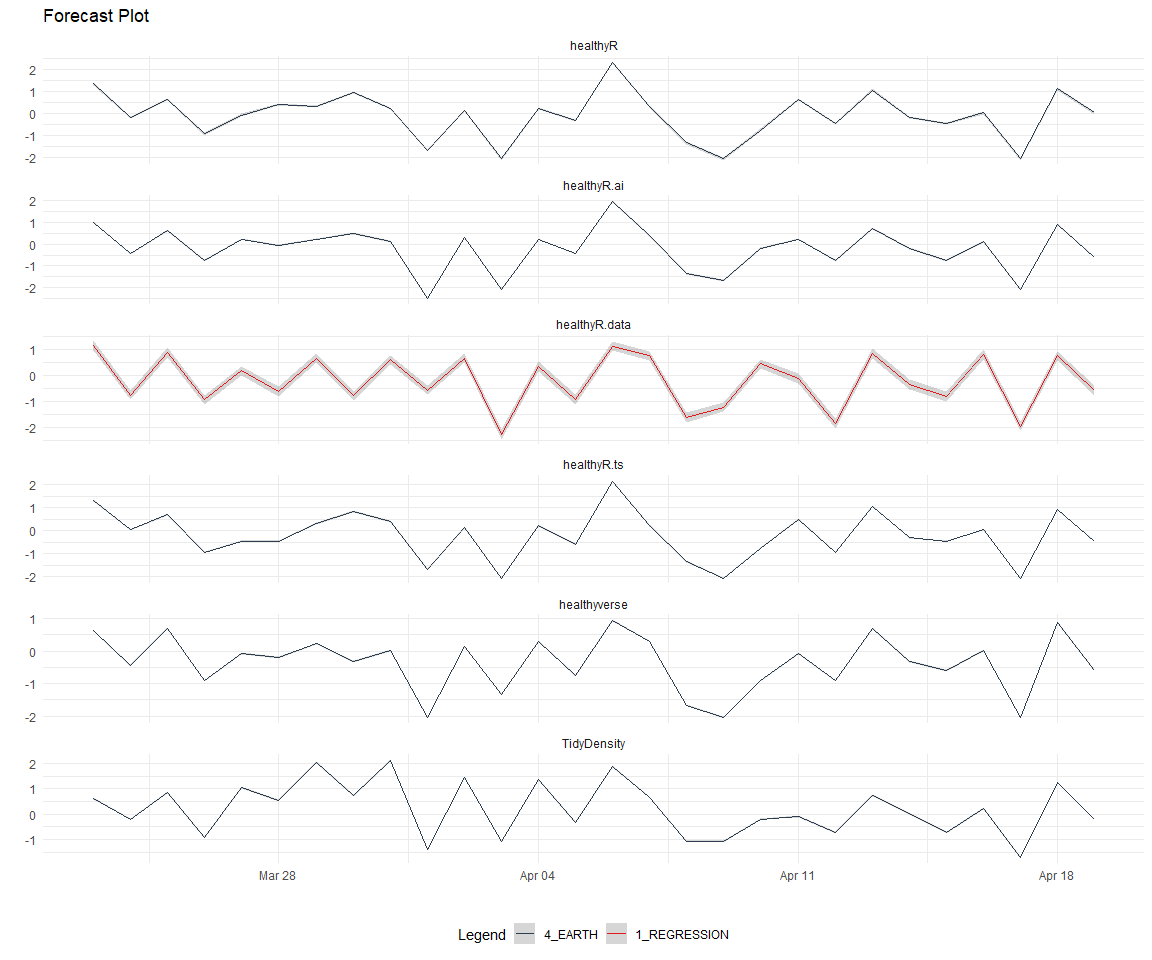
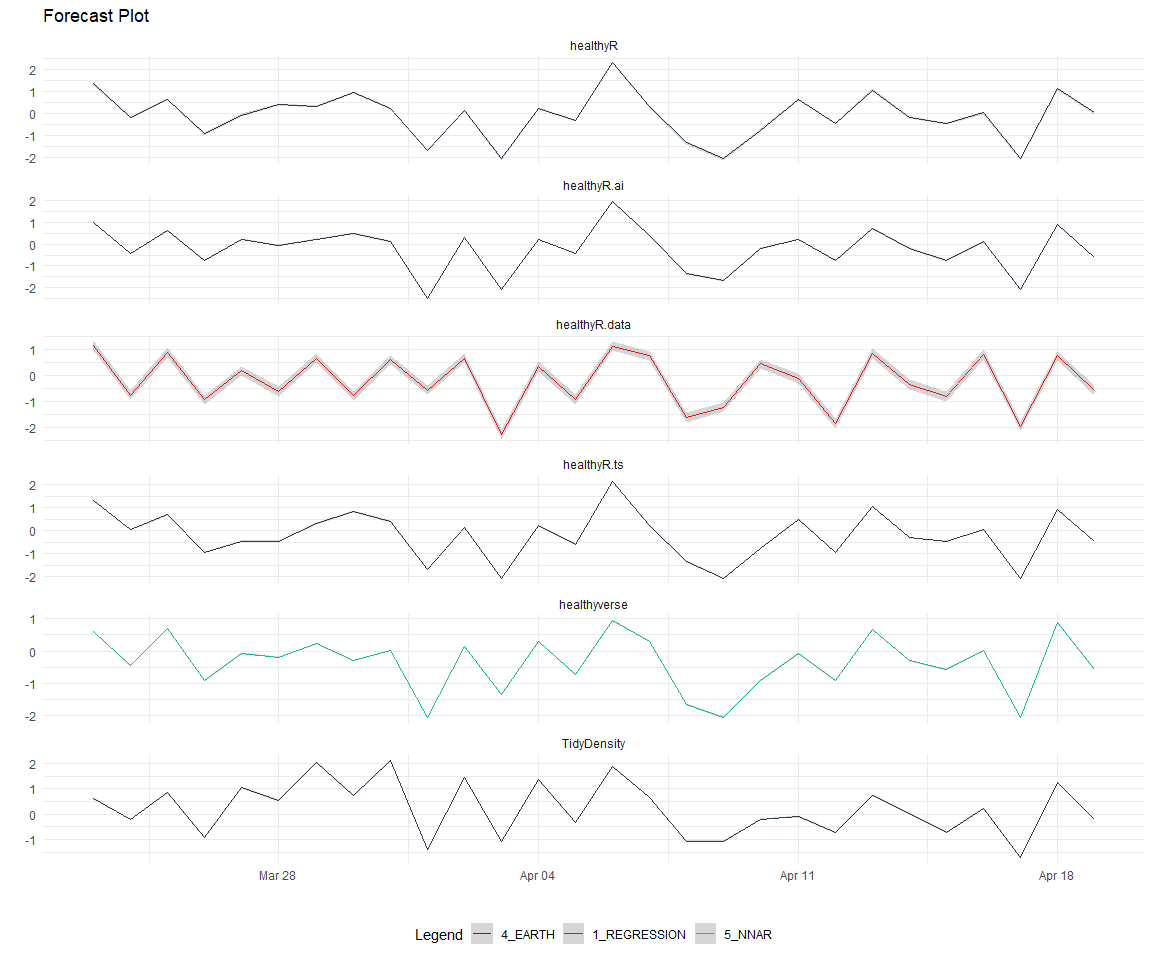
updates

Changed region(s): [[0.375, 0.9375, 0.6562, 1.0]]

diff --git a/README.md b/README.md
@@ -1,7 +1,7 @@
 Time Series Analysis and Modeling of the Healthyverse Packages
 ================
 Steven P. Sanderson II, MPH - Data Scientist/IT Manager
-19 May, 2022
+20 May, 2022
 
 ## Get Data
 
@@ -356,32 +356,32 @@ nested_modeltime_tbl %>%
 | healthyR.data |         2 | NULL        | NA    |        NA |        NA |        NA |        NA |        NA |        NA |
 | healthyR.data |         3 | LM          | Test  | 0.0815802 | 11.895946 | 0.0532149 | 11.306671 | 0.0982853 | 0.9913896 |
 | healthyR.data |         4 | EARTH       | Test  | 0.0790435 | 12.931128 | 0.0515602 | 10.873071 | 0.1142193 | 0.9885658 |
-| healthyR.data |         5 | NNAR        | Test  | 0.0676358 |  5.181998 | 0.0441190 |  4.677000 | 0.2297582 | 0.9641452 |
+| healthyR.data |         5 | NNAR        | Test  | 0.0654683 |  5.921339 | 0.0427051 |  5.435025 | 0.2160665 | 0.9657669 |
 | healthyR      |         1 | REGRESSION  | Test  | 0.0457205 | 15.670715 | 0.0349383 | 12.894597 | 0.0520252 | 0.9978446 |
 | healthyR      |         2 | NULL        | NA    |        NA |        NA |        NA |        NA |        NA |        NA |
 | healthyR      |         3 | LM          | Test  | 0.0465122 | 16.333149 | 0.0355433 | 13.253508 | 0.0531457 | 0.9978585 |
 | healthyR      |         4 | EARTH       | Test  | 0.0170752 |  3.009351 | 0.0130484 |  2.945411 | 0.0287229 | 0.9995692 |
-| healthyR      |         5 | NNAR        | Test  | 0.0400378 |  3.389680 | 0.0305958 |  3.390105 | 0.0892513 | 0.9939330 |
+| healthyR      |         5 | NNAR        | Test  | 0.0478675 |  4.193747 | 0.0365790 |  4.178191 | 0.0867070 | 0.9952773 |
 | healthyR.ts   |         1 | REGRESSION  | Test  | 0.0478146 | 17.488508 | 0.0360715 | 11.733779 | 0.0586039 | 0.9973142 |
 | healthyR.ts   |         2 | NULL        | NA    |        NA |        NA |        NA |        NA |        NA |        NA |
 | healthyR.ts   |         3 | LM          | Test  | 0.0482184 | 18.560231 | 0.0363761 | 12.508681 | 0.0584167 | 0.9974077 |
 | healthyR.ts   |         4 | EARTH       | Test  | 0.0169177 |  3.704625 | 0.0127628 |  3.583436 | 0.0187387 | 0.9997594 |
-| healthyR.ts   |         5 | NNAR        | Test  | 0.0187172 |  5.721941 | 0.0141203 |  5.174817 | 0.0299635 | 0.9992258 |
+| healthyR.ts   |         5 | NNAR        | Test  | 0.0151372 |  2.767849 | 0.0114195 |  2.654768 | 0.0257242 | 0.9995775 |
 | healthyverse  |         1 | REGRESSION  | Test  | 0.0406284 | 10.550398 | 0.0345789 |  9.579179 | 0.0486600 | 0.9977954 |
 | healthyverse  |         2 | NULL        | NA    |        NA |        NA |        NA |        NA |        NA |        NA |
 | healthyverse  |         3 | LM          | Test  | 0.0395003 | 10.426137 | 0.0336187 |  9.291932 | 0.0476391 | 0.9978235 |
 | healthyverse  |         4 | EARTH       | Test  | 0.0090854 |  2.678500 | 0.0077326 |  2.705725 | 0.0129160 | 0.9998473 |
-| healthyverse  |         5 | NNAR        | Test  | 0.0075577 |  1.611333 | 0.0064324 |  1.590808 | 0.0147626 | 0.9997966 |
+| healthyverse  |         5 | NNAR        | Test  | 0.0067354 |  1.318547 | 0.0057325 |  1.299695 | 0.0128784 | 0.9998571 |
 | healthyR.ai   |         1 | REGRESSION  | Test  | 0.0438006 |  7.737936 | 0.0331360 |  7.381359 | 0.0611321 | 0.9963700 |
 | healthyR.ai   |         2 | NULL        | NA    |        NA |        NA |        NA |        NA |        NA |        NA |
 | healthyR.ai   |         3 | LM          | Test  | 0.0440842 |  7.935210 | 0.0333506 |  7.550859 | 0.0624085 | 0.9963929 |
 | healthyR.ai   |         4 | EARTH       | Test  | 0.0162121 |  2.857201 | 0.0122647 |  2.808082 | 0.0193752 | 0.9997234 |
-| healthyR.ai   |         5 | NNAR        | Test  | 0.0185579 |  1.731310 | 0.0140394 |  1.709345 | 0.0494273 | 0.9987196 |
+| healthyR.ai   |         5 | NNAR        | Test  | 0.0240720 |  1.713819 | 0.0182109 |  1.665860 | 0.0690851 | 0.9975411 |
 | TidyDensity   |         1 | REGRESSION  | Test  | 0.1226356 | 54.426556 | 0.0824110 | 36.270431 | 0.1416803 | 0.9948989 |
 | TidyDensity   |         2 | NULL        | NA    |        NA |        NA |        NA |        NA |        NA |        NA |
 | TidyDensity   |         3 | LM          | Test  | 0.1561323 | 68.557649 | 0.1049208 | 42.456505 | 0.1771358 | 0.9931595 |
 | TidyDensity   |         4 | EARTH       | Test  | 0.0135525 |  1.414239 | 0.0091073 |  1.413215 | 0.0190109 | 0.9996901 |
-| TidyDensity   |         5 | NNAR        | Test  | 0.3369911 | 83.302703 | 0.2264577 | 62.433093 | 0.4249707 | 0.9347106 |
+| TidyDensity   |         5 | NNAR        | Test  | 0.3520598 | 67.866321 | 0.2365839 | 62.441558 | 0.4443115 | 0.9281614 |
 
 ### Plot Models
 
@@ -421,7 +421,7 @@ best_nested_modeltime_tbl %>%
     ## 1 healthyR~         1 REGRESSION  Test  0.0768  11.4  0.0501  11.0  0.0940 0.993
     ## 2 healthyR          4 EARTH       Test  0.0171   3.01 0.0130   2.95 0.0287 1.00 
     ## 3 healthyR~         4 EARTH       Test  0.0169   3.70 0.0128   3.58 0.0187 1.00 
-    ## 4 healthyv~         4 EARTH       Test  0.00909  2.68 0.00773  2.71 0.0129 1.00 
+    ## 4 healthyv~         5 NNAR        Test  0.00674  1.32 0.00573  1.30 0.0129 1.00 
     ## 5 healthyR~         4 EARTH       Test  0.0162   2.86 0.0123   2.81 0.0194 1.00 
     ## 6 TidyDens~         4 EARTH       Test  0.0136   1.41 0.00911  1.41 0.0190 1.00
 
